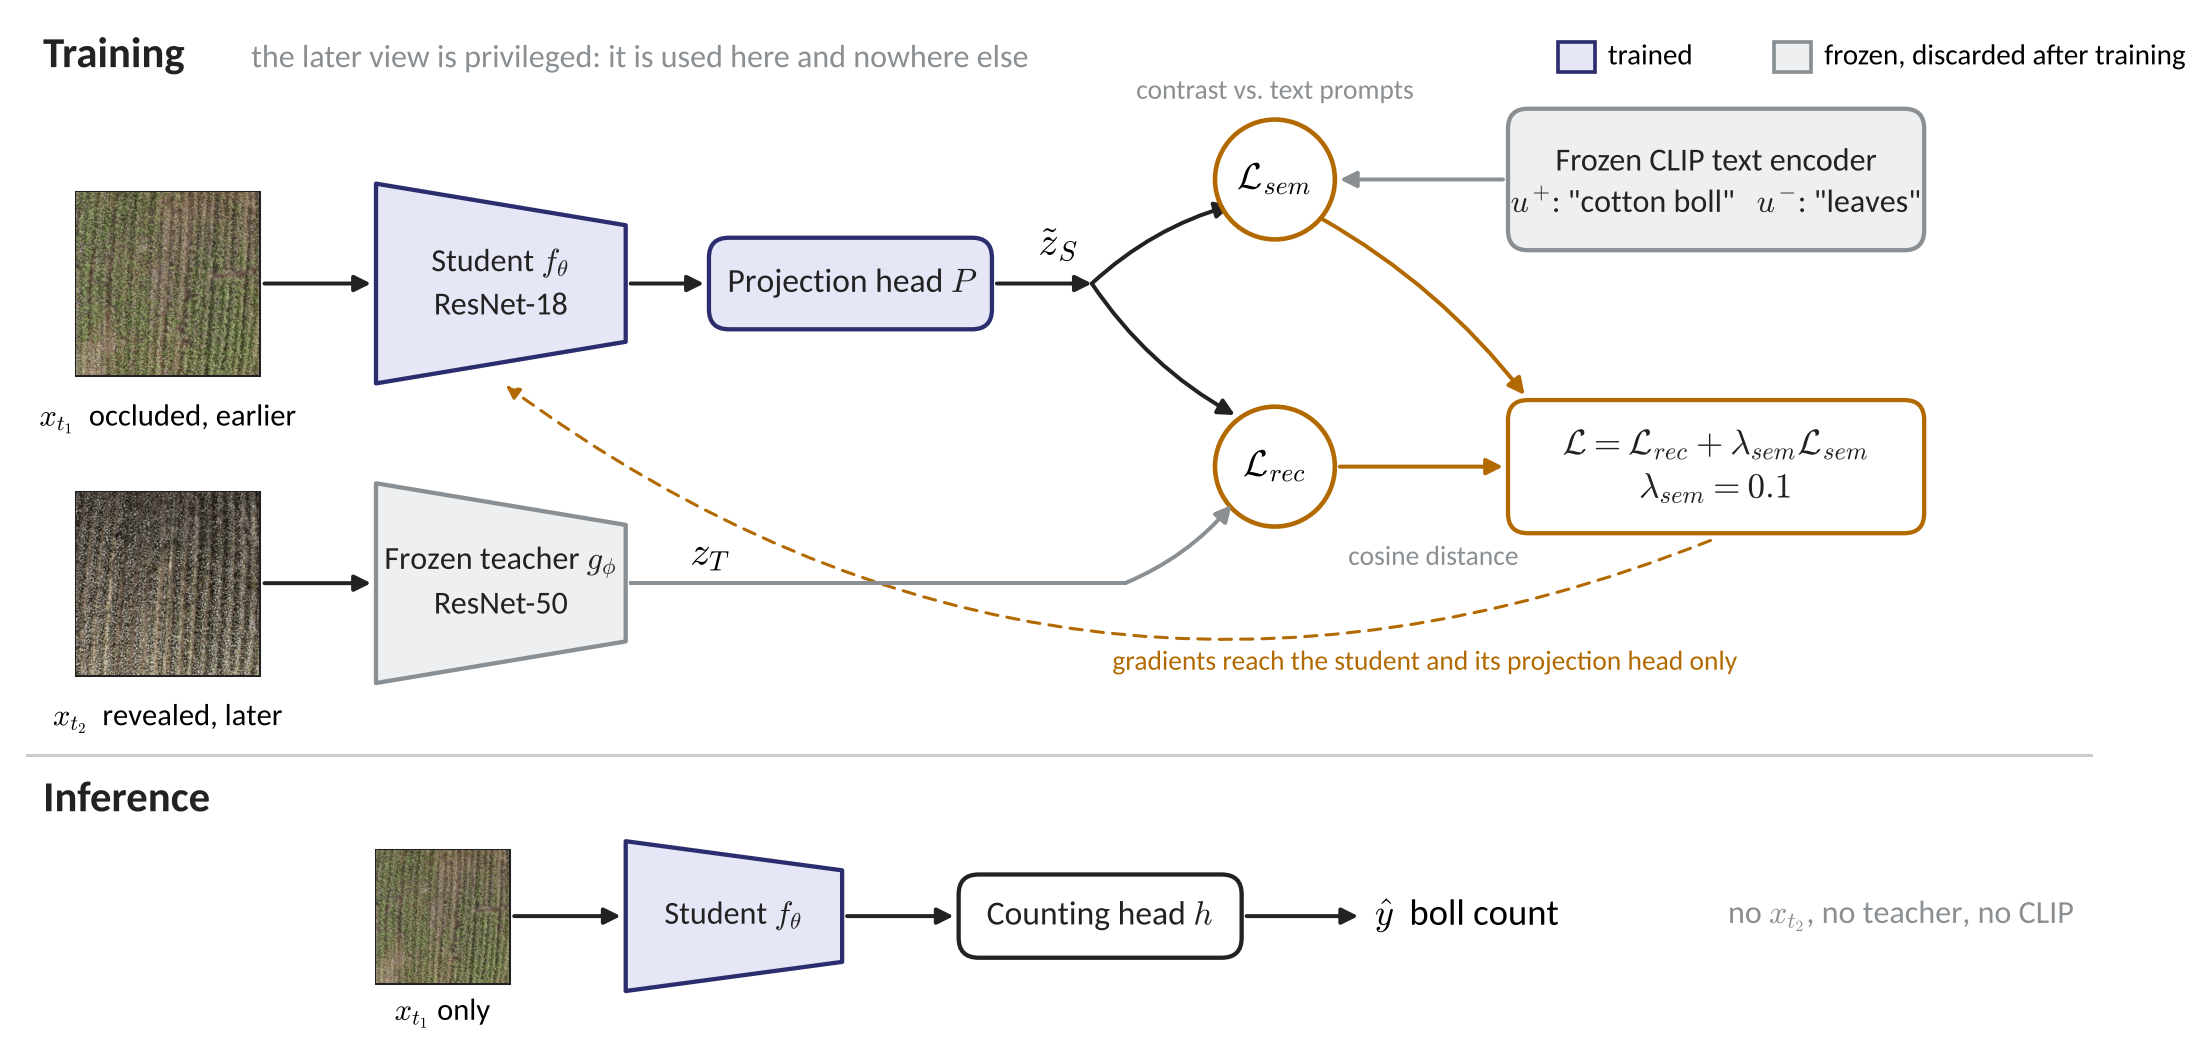
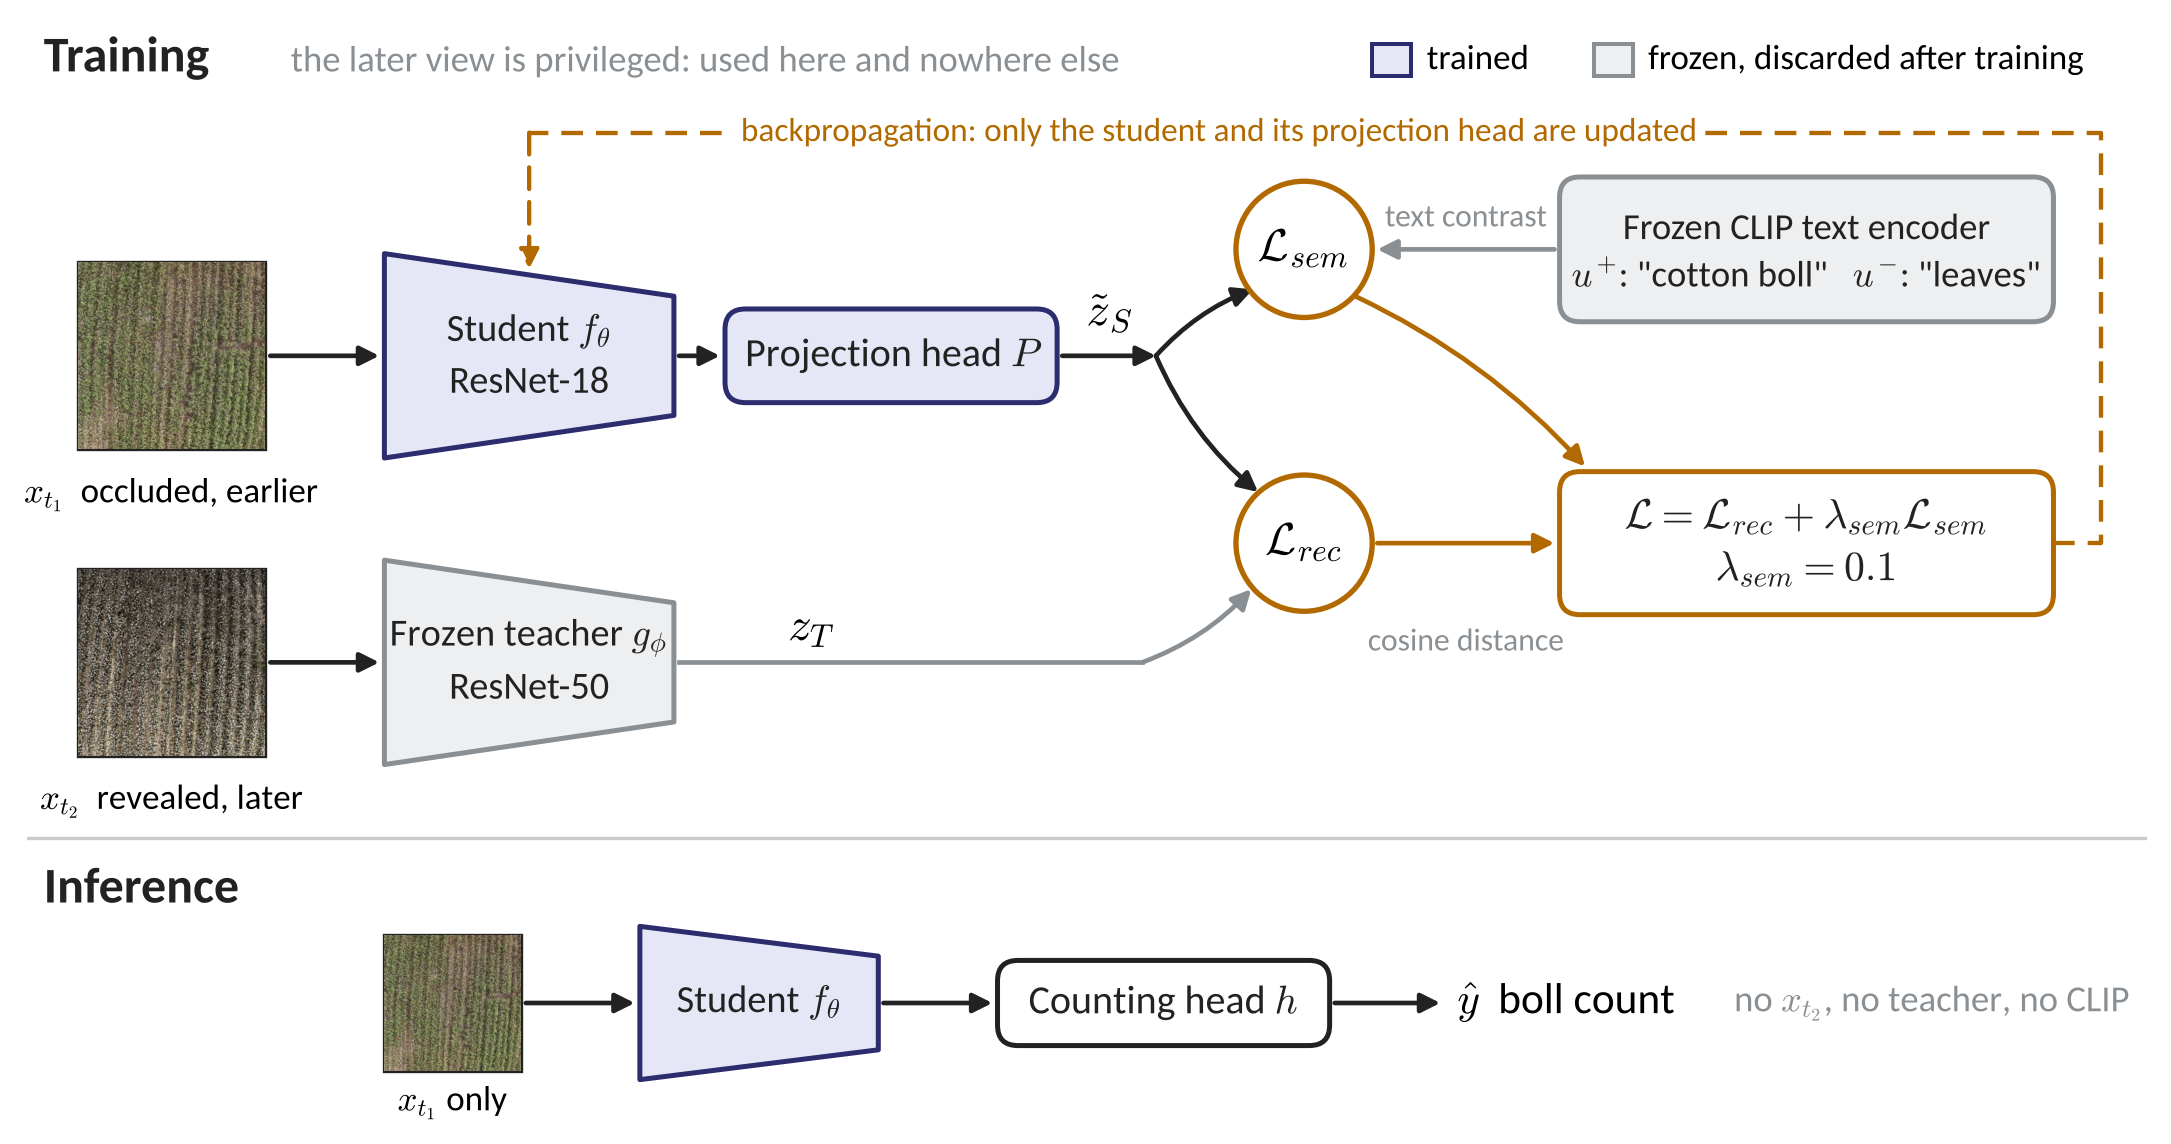
Refine the architecture figure and add a section on relevance beyond agriculture

diff --git a/docs/index.html b/docs/index.html
@@ -60,7 +60,13 @@ footer{color:#56605a;font-size:14px;border-top:1px solid #d5ded8;margin-top:50px
 <ul><li>This is not a psychological model: no gaze, action, memory consolidation or infant curriculum.</li>
 <li>It assumes approximate target stationarity, a monotonic increase in visibility and adequate registration.</li>
 <li>The evidence covers one crop, one acquisition protocol and one synthetic control.</li></ul>
-<h2><span>6</span>Citation</h2>
+<h2><span>6</span>Why this matters beyond one dataset</h2>
+<p>The claim is about learning, not about cotton. Three ideas carry over to other problems.</p>
+<ul><li><b>Experience is ordered, and the order is informative.</b> Standard self-supervision treats two views of a scene as interchangeable. A revealing event makes one view strictly more informative than the other, and that asymmetry is a usable training signal.</li>
+<li><b>Supervision can come from the world's own dynamics.</b> No person completes the hidden object; a later look at the same scene does. Any system that revisits scenes collects such pairs as a by-product of operating.</li>
+<li><b>What is learned outlives the teacher.</b> The privileged view shapes the representation and is then removed. The student acts on the occluded present alone.</li></ul>
+<p>The boundary is equally general: the later view must show the same instances. Where identity is not preserved, the signal is noise.</p>
+<h2><span>7</span>Citation</h2>
 <pre>@inproceedings{manjunatha2026permanence,
   title     = {Learning Object Permanence from Natural Revealing Events: Temporal Privileged Distillation for Amodal Counting},
   author    = {Manjunatha, Harshitha and Sundaravadivel, Prabha and Borah, Shekhar Suman and Tamil, Lakshman and Torbert, H. Allen},

diff --git a/README.md b/README.md
@@ -45,7 +45,7 @@ The later view contains information the earlier view lacks. We treat it as **pri
 
 ## From a developmental insight to a learning signal
 
-<p align="center"><img src="docs/assets/method_overview.png" width="92%" alt="TePD training and inference"></p>
+<p align="center"><img src="docs/assets/method_overview.png" width="100%" alt="TePD training and inference"></p>
 <p align="center"><i>TePD training and inference. The frozen teacher and the frozen CLIP text encoder shape the student during training and are discarded afterwards.</i></p>
 
 The setting, with targets $S$, structured occluder $N$, an unobserved visibility mask $M$ and residual $\epsilon$:
@@ -117,6 +117,16 @@ To separate the learning mechanism from crop texture, we built scenes of colored
 ## A developmental reading
 
 The order and structure of experience supply supervision that neither frame holds alone. An ambiguous observation is constrained after the fact by a later encounter with the same scene. That asymmetry resembles a developmental curriculum, and it may be useful wherever visibility changes while identity persists: snow melt, tidal recession, staged assembly, repeated robot interaction. Each of those would need evidence that the later view preserves the target instance.
+
+## Why this matters beyond one dataset
+
+The claim is about learning, not about cotton. Three ideas carry over to other problems:
+
+- **Experience is ordered, and the order is informative.** Standard self-supervision treats two views of a scene as interchangeable. A revealing event makes one view strictly more informative than the other, and that asymmetry is a usable training signal.
+- **Supervision can come from the world's own dynamics.** No person completes the hidden object; a later look at the same scene does. Any system that revisits scenes collects such pairs as a by-product of operating.
+- **What is learned outlives the teacher.** The privileged view shapes the representation and is then removed. The student acts on the occluded present alone, with a ResNet-18 forward pass and a counting head.
+
+The boundary is equally general: the later view must show the same instances. Where identity is not preserved, the signal is noise.
 
 ## What this is not
 
